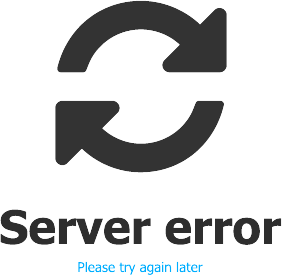
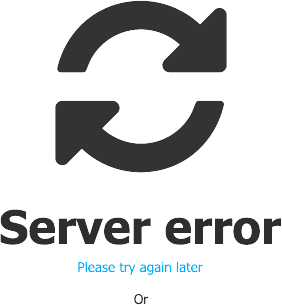
mo

diff --git a/error.html b/error.html
@@ -1,0 +1,20 @@
+<!DOCTYPE html>
+<html dir="rtl">
+  <head>
+    <meta charset="utf-8">
+    <meta http-equiv="X-UA-Compatible" content="IE=edge">
+    <script src="js/modernizr.custom.93303.js"></script><link rel="shortcut icon" href="favicon.ico" type="image/x-icon">
+    <link rel="icon" href="favicon.ico" type="image/x-icon">
+    <title>Pens and books</title>
+    <link rel="stylesheet" href="css/jquery-ui.css">
+    <link rel="stylesheet" href="css/style.css">
+    <link rel="stylesheet" href="http://maxcdn.bootstrapcdn.com/font-awesome/4.2.0/css/font-awesome.min.css">
+  </head>
+  <body class="errorBody">
+    <div class="errorMessage"><img src="img/error.png">
+      <div class="form-group">
+        <input type="text" placeholder="search" class="form-control">
+      </div>
+    </div>
+  </body>
+</html>

diff --git a/css/style.css b/css/style.css
@@ -749,6 +749,21 @@ h3 {
   color: #0ba2ce;
 }
 
+.errorMessage {
+  margin: auto;
+  position: absolute;
+  top: 0;
+  left: 0;
+  bottom: 0;
+  right: 0;
+  height: 343px;
+  text-align: center;
+}
+.errorMessage input.form-control {
+  width: 280px;
+  text-align: center;
+}
+
 .form-group {
   margin-bottom: 24px;
 }
@@ -1285,8 +1300,8 @@ input[type="file"]:active::before {
 }
 .main-nav li.main-home {
   font-size: 28px;
-  padding-top: 14px;
-  padding-bottom: 9px;
+  padding-top: 12px;
+  padding-bottom: 11px;
 }
 .main-nav li.profile {
   padding-bottom: 10px;

diff --git a/assets/sass/_main.scss b/assets/sass/_main.scss
@@ -345,3 +345,17 @@ h3{
 		color: $blue;
 	}
 }
+.errorMessage{
+	margin: auto;
+	position: absolute;
+	top: 0;
+	left: 0;
+	bottom: 0;
+	right: 0;
+	height: 343px;
+	text-align: center;
+	input.form-control{
+		width: 280px;
+		text-align:center;
+	}
+}

diff --git a/assets/sass/_nav.scss b/assets/sass/_nav.scss
@@ -162,8 +162,8 @@
 		font-size: 25px;
 		&.main-home{
 			font-size: 28px;
-			padding-top: 14px;
-			padding-bottom: 9px;
+			padding-top: 12px;
+			padding-bottom: 11px;
 		}
 		&.profile{
 			padding-bottom: 10px;
